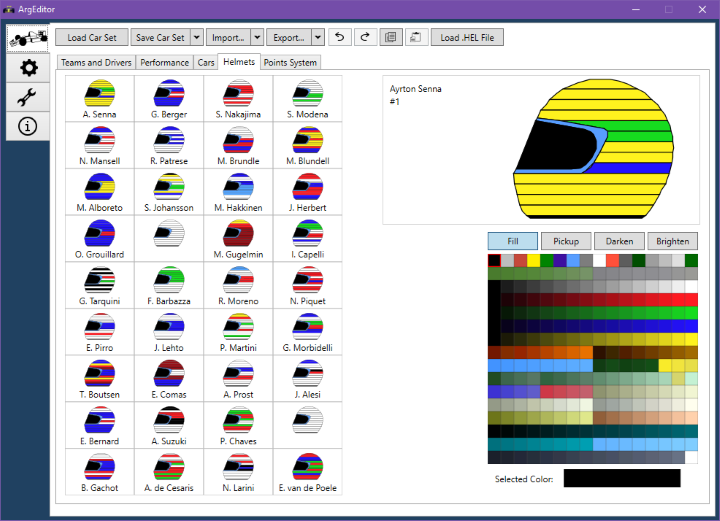
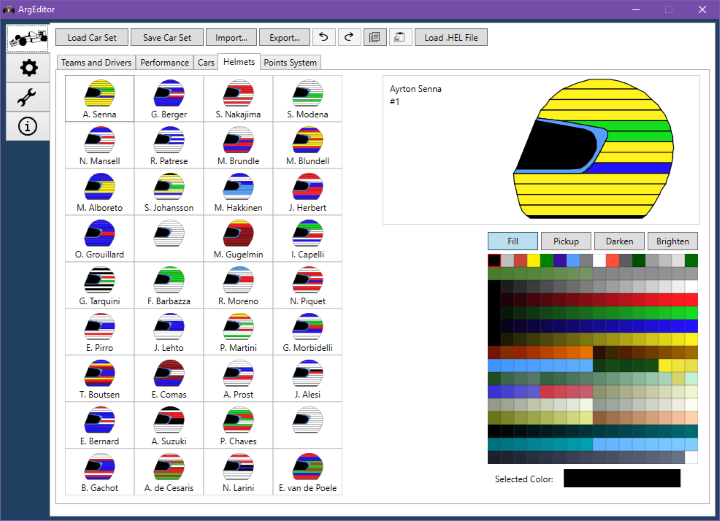
Remember latest export/import settings
Hide Load/Save names for now
Go to specific page in help documentation based on selected tab
Update documentation

Changed region(s): [[0.1833, 0.0307, 0.7028, 0.0921]]

diff --git a/Source/ArgEditor/UserControls/CarSet/CarSetTopMenuUserControl.xaml b/Source/ArgEditor/UserControls/CarSet/CarSetTopMenuUserControl.xaml
@@ -27,7 +27,7 @@
                 </Button>
             </StackPanel>
 
-            <StackPanel Orientation="Horizontal" Margin="3,0,0,0" Visibility="{Binding ShowTeamDriverNamesActionButtons}">
+            <!--<StackPanel Orientation="Horizontal" Margin="3,0,0,0" Visibility="{Binding ShowTeamDriverNamesActionButtons}">
                 <Button Width="100" Height="24" Margin="0"
                         Command="{Binding ImportFromNameFileCommand}" CommandParameter="{Binding}">
                     Load Name File
@@ -36,7 +36,7 @@
                         Command="{Binding ExportToNameFileCommand}" CommandParameter="{Binding}">
                     Save Name File
                 </Button>
-            </StackPanel>
+            </StackPanel>-->
 
             <StackPanel Orientation="Horizontal" Margin="3,0,0,0" Visibility="{Binding ShowCarPitCrewActionButtons}">
                 <Button Width="32" Height="24"

diff --git a/Source/ArgEditor/UserControls/HelmetPaintingTabUserControl.xaml b/Source/ArgEditor/UserControls/HelmetPaintingTabUserControl.xaml
@@ -33,11 +33,9 @@
                         <Border.Style>
                             <Style>
                                 <Setter Property="Border.BorderBrush" Value="DarkGray" />
-                                <Setter Property="Border.BorderThickness" Value="0.5" />
                                 <Style.Triggers>
                                     <DataTrigger Binding="{Binding Helmet.IsSelected}" Value="True">
                                         <Setter Property="Border.BorderBrush" Value="#404040" />
-                                        <Setter Property="Border.BorderThickness" Value="2" />
                                     </DataTrigger>
                                 </Style.Triggers>
                             </Style>

diff --git a/Source/ArgEditor/UserControls/CarSelectionItemUserControl.xaml b/Source/ArgEditor/UserControls/CarSelectionItemUserControl.xaml
@@ -11,11 +11,9 @@
             <Border.Style>
                 <Style>
                     <Setter Property="Border.BorderBrush" Value="DarkGray" />
-                    <Setter Property="Border.BorderThickness" Value="0.5" />
                     <Style.Triggers>
                         <DataTrigger Binding="{Binding IsSelected}" Value="True">
                             <Setter Property="Border.BorderBrush" Value="#404040" />
-                            <Setter Property="Border.BorderThickness" Value="2" />
                         </DataTrigger>
                     </Style.Triggers>
                 </Style>

diff --git a/Source/ArgEditor/Commands/HelpDocsCommand.cs b/Source/ArgEditor/Commands/HelpDocsCommand.cs
@@ -1,4 +1,5 @@
 using System.Diagnostics;
+using ArgEditor.ViewModels;
 
 namespace ArgEditor.Commands
 {
@@ -6,9 +7,78 @@ namespace ArgEditor.Commands
     {
         public override void Execute(object parameter)
         {
-            // TODO: parse parameter to determine page to open
+            var vm = parameter as MainViewModel;
 
-            Process.Start(@"http://manicomio.se/argeditor/");
+            if (vm == null)
+            {
+                OpenWebSitePage();
+                return;
+            }
+
+            if (vm.SelectedMainTabIndex == 0)       // carset
+            {
+                if (vm.SelectedCarSetTabIndex == 0)
+                {
+                    OpenWebSitePage("carset-screen/#teams-and-drivers-tab");
+                    return;
+                }
+
+                if (vm.SelectedCarSetTabIndex == 1)
+                {
+                    OpenWebSitePage("carset-screen/#performance-tab");
+                    return;
+                }
+
+                if (vm.SelectedCarSetTabIndex == 2)
+                {
+                    OpenWebSitePage("carset-screen/#cars-tab");
+                    return;
+                }
+
+
+                if (vm.SelectedCarSetTabIndex == 3)
+                {
+                    OpenWebSitePage("carset-screen/#helmets-tab");
+                    return;
+                }
+
+
+                if (vm.SelectedCarSetTabIndex == 4)
+                {
+                    OpenWebSitePage("carset-screen/#points-system-tab");
+                    return;
+                }
+
+            }
+
+            if (vm.SelectedMainTabIndex == 1)       // game settings
+            {
+                OpenWebSitePage("settings-screen/");
+                return;
+            }
+
+            if (vm.SelectedMainTabIndex == 2)       // setups
+            {
+                // TODO: implement selected setups tab
+                OpenWebSitePage("setups-screen/");
+                return;
+            }
+
+            if (vm.SelectedMainTabIndex == 3)       // help/about
+            {
+                OpenWebSitePage("help-about-screen/");
+                return;
+            }
+
+            // fallback
+            OpenWebSitePage();
+        }
+
+        private void OpenWebSitePage(string relativeChildUrl = "")
+        {
+            var fullUrl = $"http://manicomio.se/argeditor/{relativeChildUrl}";
+
+            Process.Start(fullUrl);
         }
     }
 }

diff --git a/Source/ArgEditor/Commands/DisplayExportWizardCommand.cs b/Source/ArgEditor/Commands/DisplayExportWizardCommand.cs
@@ -11,10 +11,14 @@ namespace ArgEditor.Commands
             var viewModel = parameter as MainViewModel;
             if (viewModel == null) return;
 
+            var exportViewModel = App.LatestExportViewModel == null
+                ? new ExportViewModel(viewModel)
+                : App.LatestExportViewModel;
+
             var exportWindow = new ExportWindow
             {
                 Owner = Application.Current.MainWindow,
-                DataContext = new ExportViewModel(viewModel)
+                DataContext = exportViewModel
             };
 
             exportWindow.ShowDialog();

diff --git a/Source/ArgEditor/Commands/DisplayImportWizardCommand.cs b/Source/ArgEditor/Commands/DisplayImportWizardCommand.cs
@@ -11,10 +11,14 @@ namespace ArgEditor.Commands
             var viewModel = parameter as MainViewModel;
             if (viewModel == null) return;
 
+            var importViewModel = App.LatestImportViewModel == null
+                ? new ImportViewModel(viewModel)
+                : App.LatestImportViewModel;
+
             var importWindow = new ImportWindow
             {
                 Owner = Application.Current.MainWindow,
-                DataContext = new ImportViewModel(viewModel)
+                DataContext = importViewModel
             };
 
             importWindow.ShowDialog();

diff --git a/Source/ArgEditor/App.xaml.cs b/Source/ArgEditor/App.xaml.cs
@@ -43,5 +43,9 @@ namespace ArgEditor
 
         public static CarEditingViewModel ClipboardCar { get; set; }
         public static HelmetViewModel ClipboardHelmet { get; set; }
+
+        // better place for this?
+        public static ImportViewModel LatestImportViewModel { get; set; }
+        public static ExportViewModel LatestExportViewModel { get; set; }
     }
 }

diff --git a/Source/ArgEditor/Windows/ExportWindow.xaml.cs b/Source/ArgEditor/Windows/ExportWindow.xaml.cs
@@ -51,6 +51,8 @@ namespace ArgEditor.Windows
                 prefsWriter.SetAutoLoadedNameFile(ViewModel.SelectedNameFilePath);
             }
 
+            App.LatestExportViewModel = ViewModel;
+
             this.Close();
         }
 

diff --git a/Source/ArgEditor/Windows/ImportWindow.xaml.cs b/Source/ArgEditor/Windows/ImportWindow.xaml.cs
@@ -46,6 +46,8 @@ namespace ArgEditor.Windows
                 nameFileLoader.Load(vm.Parent, vm.SelectedNameFilePath);
             }
 
+            App.LatestImportViewModel = vm;
+
             this.Close();
         }
 

diff --git a/Docs/docs/importing-and-exporting.md b/Docs/docs/importing-and-exporting.md
@@ -9,14 +9,10 @@ importing and exporting data.
 ## Importing Data
 
 You can import an entire car set, including car colors, driver performance levels,
-horsepower levels, etc, from an existing GP.EXE. It is also possible to import 
-team and driver names from a name file.
+horsepower levels, etc, from an existing GP.EXE.
 
-There are three ways of importing data:
-
-### Import...
-
-Using this menu option will open up a "wizard" that lets you select an EXE file to
+To Import existing data, click on the "Import" button at the top of the screen.
+This will open up a "wizard" that lets you select an EXE file to
 import data from, and decide which data to import.
 
 ![Import](img/import-wizard.png)
@@ -43,26 +39,12 @@ When you have selected everything, click the Import button and ArgEditor will ma
 the import for you.
 
 
-### Import from GP.EXE
-
-This option imports _all_ data from a GP.EXE. Clicking this option will open a file
-dialog, allowing you to choose which EXE file you want to import data from.
-
-
-### Import from Name File
-
-This options lets you load team and driver names from a name file. Clicking on this
-menu item opens a file dialog, allowing you to choose the name file that you want to import.
-
 
 ## Exporting Data
 
 When are finished naming and painting, you can export everything to an existing GP.EXE file.
 
-There are three ways of exporting data:
-
-### Export...
-
+Click the "Export" button at the top of the screen.
 Using this menu option will open up a "wizard" that lets you select an EXE file to
 export data to, and decide which data to export.
 
@@ -100,16 +82,3 @@ folder of the specified GP.EXE.
 When you have selected everything, click the Export button and ArgEditor will manage
 the export for you.
 
-
-
-### Export to GP.EXE
-
-This option exports _all_ data from ArgEditor to a GP.EXE. Clicking this option will open a file
-dialog, allowing you to choose which EXE file you want to export data to.
-
-
-### Export to Name File
-
-This options lets you save team and driver names to a name file. Clicking on this
-menu item opens a file dialog, allowing you to choose the name file that you want to export.
-The file that you save here can then be loaded in F1GP using the "Load Names" option.

diff --git a/Docs/docs/download.md b/Docs/docs/download.md
@@ -18,6 +18,16 @@ be found here: https://www.microsoft.com/en-us/download/details.aspx?id=24872
 
 ## Release notes
 
+### 0.12 (2017-05-12)
+
+* The selected car/helmet is marked with a darker border in the left-side menus
+* Reorganized top menu, importing/exporting is now always done via the wizard
+* The import/export wizards remember your latest settings as long as ArgEditor is running
+* Opening the help documentation by tapping F1 opens documentation for the specific tab that is open
+* Fix: ArgEditor does not crash when attempting to load a name file that is not actually a name file
+* Fix: Can create a name file without a file extension, fixed for real this time...
+
+
 ### 0.11 (2017-05-10)
 
 * Can create and edit setup files, both single and multiple ones
